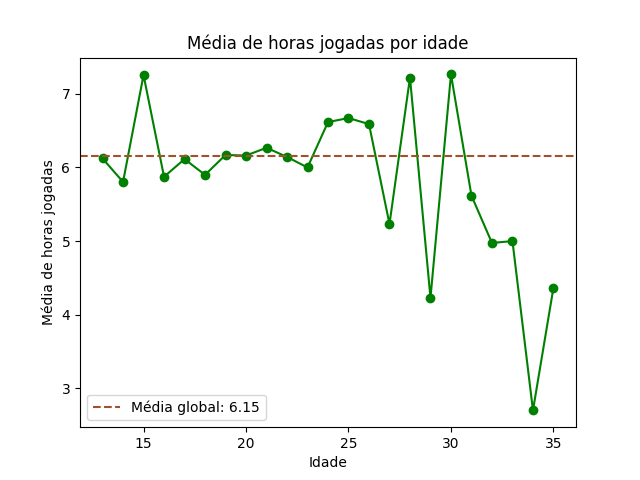
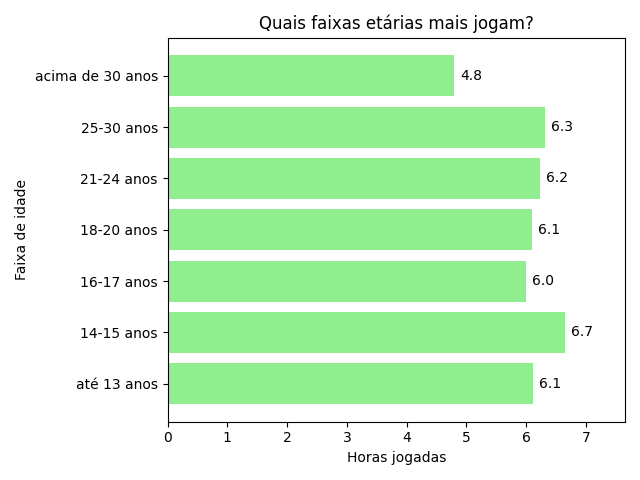
organizando o eda

diff --git a/analysis/analysis.py b/analysis/analysis.py
@@ -20,31 +20,84 @@ df.describe()
 # %%
 df.info()
 # %%
-## descobrir a média de horas jogadas por idade
+## 1.COMPORTAMENTO DO DATASET
 
-media_por_idade = df.groupby('age', as_index=False)['daily_gaming_hours'].mean()
+## 1.1 quem joga mais? FAIXA ETÁRIA
 
-media_por_idade.set_index('age', inplace=True)
-media_por_idade.head()
+df['faixa_idade'] = pd.cut( 
+    df['age'], 
+    bins=[0, 13, 15, 17, 20, 24, 30, 100],
+    labels=['até 13 anos', '14-15 anos', '16-17 anos', '18-20 anos', '21-24 anos', '25-30 anos', 'acima de 30 anos'] 
+)
 
-# %% 
+media_por_idade = df.groupby('faixa_idade', as_index=False)['daily_gaming_hours'].mean() 
 
-## definindo a média global
+media_por_idade.head(7)
 
-media_global = df['daily_gaming_hours'].mean()
-print(media_global)
 # %%
 ## plotar o gráfico horas jogadas x idade
 
-plt.plot(media_por_idade.index, media_por_idade.values, marker='o', color = 'green')
+plt.barh(
+    media_por_idade['faixa_idade'],          # categorias no eixo Y
+    media_por_idade['daily_gaming_hours'],   # valores no eixo X
+    color='lightgreen'
+)
 
-plt.xlabel('Idade')
-plt.axhline(media_global, color='sienna', linestyle='--', label=f'Média global: {media_global:.2f}')
-plt.ylabel('Média de horas jogadas')
-plt.title('Média de horas jogadas por idade')
-plt.legend()
+plt.xlabel('Horas jogadas')
+plt.ylabel('Faixa de idade')
+plt.title('Quais faixas etárias mais jogam?')
 
-## plt.savefig("../img/horas_jogadas_idade.png")
+for i, value in enumerate(media_por_idade['daily_gaming_hours']):
+    plt.text(value + 0.1, i, f'{value:.1f}', va='center')
+
+plt.xlim(0, max(media_por_idade['daily_gaming_hours']) + 1)
+plt.tight_layout()
+
+plt.savefig("../img/horas_jogadas_idade.png")
+
+plt.show()
+
+# %%
+
+## 1.2 quem joga mais? GÊNERO
+
+
+
+
+# %%
+
+# 2. GAMING vs saúde mental
+
+## 2.1 quem joga mais dorme menos?
+
+df['faixa_jogo'] = pd.cut(
+    df['daily_gaming_hours'],
+    bins=[0, 1, 2, 3, 5, 10],
+    labels=['0-1h', '1-2h', '2-3h', '3-5h', '5h+']
+)
+
+sono_horas_jogadas = df.groupby('faixa_jogo', as_index=False)['sleep_hours'].mean()
+
+sono_horas_jogadas.head()
+# %%
+
+## plotar o gráfico horas jogadas x sono
+
+plt.bar(
+    sono_horas_jogadas['faixa_jogo'],
+    sono_horas_jogadas['sleep_hours'],
+    color='purple'
+)
+
+plt.xlabel('Faixa de horas de jogo')
+plt.ylabel('Quantidade de horas de sono')
+plt.title('Pessoas que jogam mais dormem menos?')
+
+for i, value in enumerate(sono_horas_jogadas['sleep_hours']):
+    plt.text(i, value + 0.1, f'{value:.1f}', ha='center')
+
+plt.savefig("../img/sono_horas_jogadas.png")
 
 plt.show()
 # %%
+
